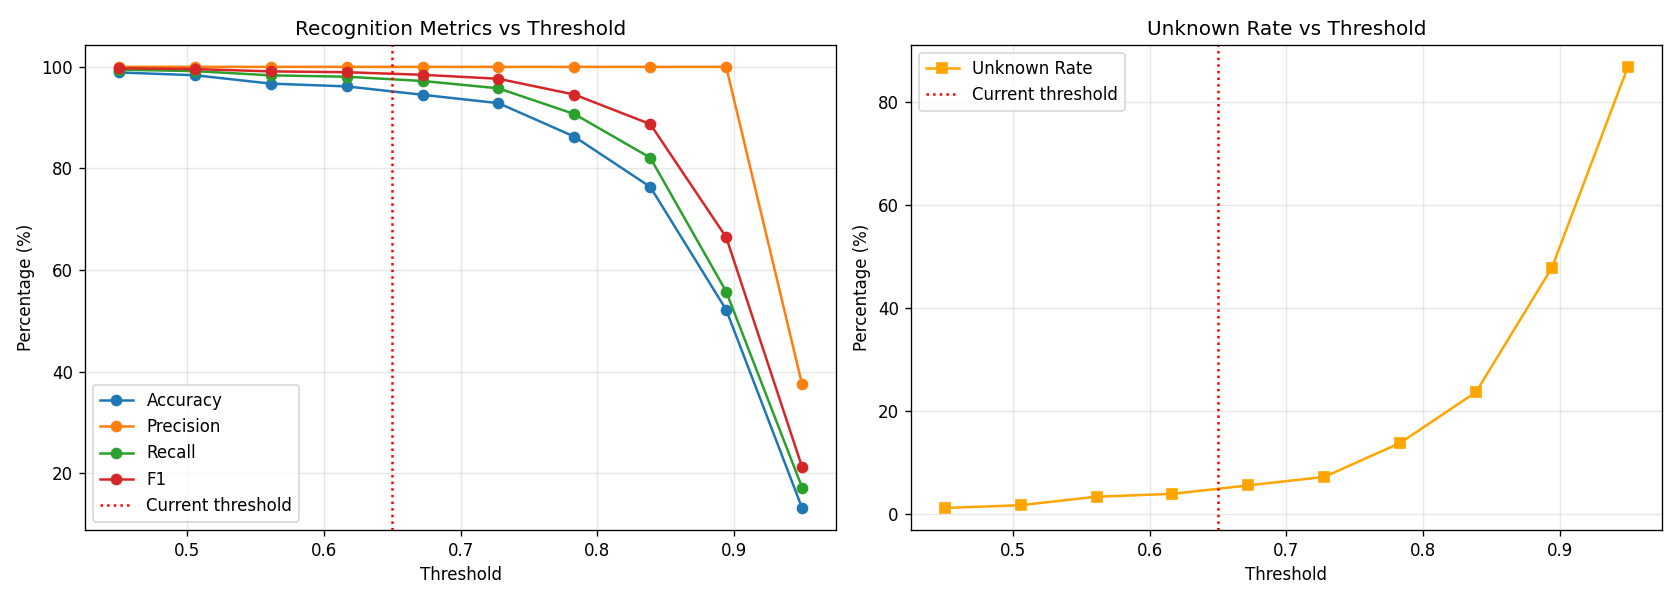
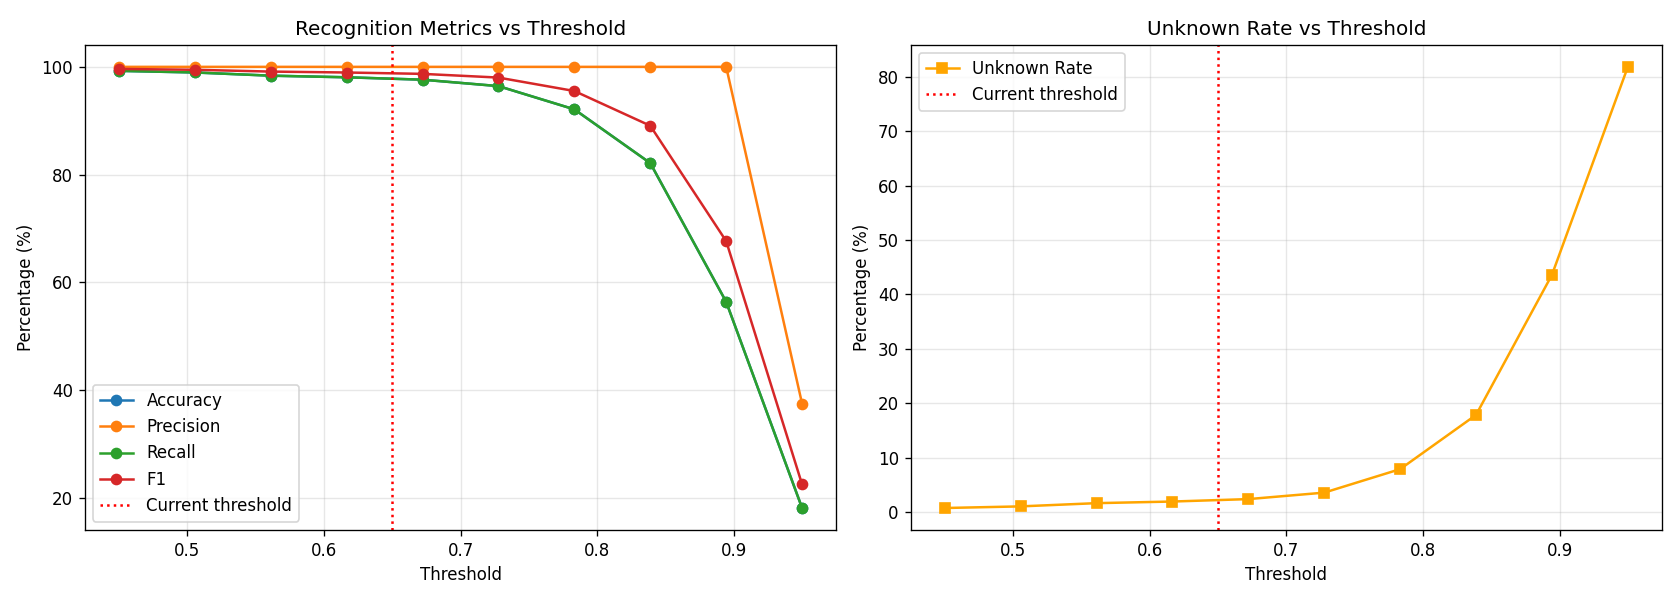
Eval changes to have balance and timestamped output

diff --git a/evaluate.py b/evaluate.py
@@ -20,6 +20,7 @@ from sklearn.metrics.pairwise import cosine_similarity
 import matplotlib
 matplotlib.use('Agg')
 import matplotlib.pyplot as plt
+from datetime import datetime
 
 EMBEDDINGS_FILE = 'embeddings.pkl'
 
@@ -199,9 +200,11 @@ def evaluate_threshold_range(thresholds: list[float], names, embs):
     ax2.legend()
     ax2.grid(True, alpha=0.3)
 
+    timestamp = datetime.now().strftime('%Y%m%d_%H%M%S')
+    out_path = f'threshold_analysis_{timestamp}.png'
     plt.tight_layout()
-    plt.savefig('threshold_analysis.png', dpi=120)
-    print("[INFO] Threshold analysis saved to threshold_analysis.png")
+    plt.savefig(out_path, dpi=120)
+    print(f"[INFO] Threshold analysis saved to [{out_path}]")
 
 
 if __name__ == '__main__':
